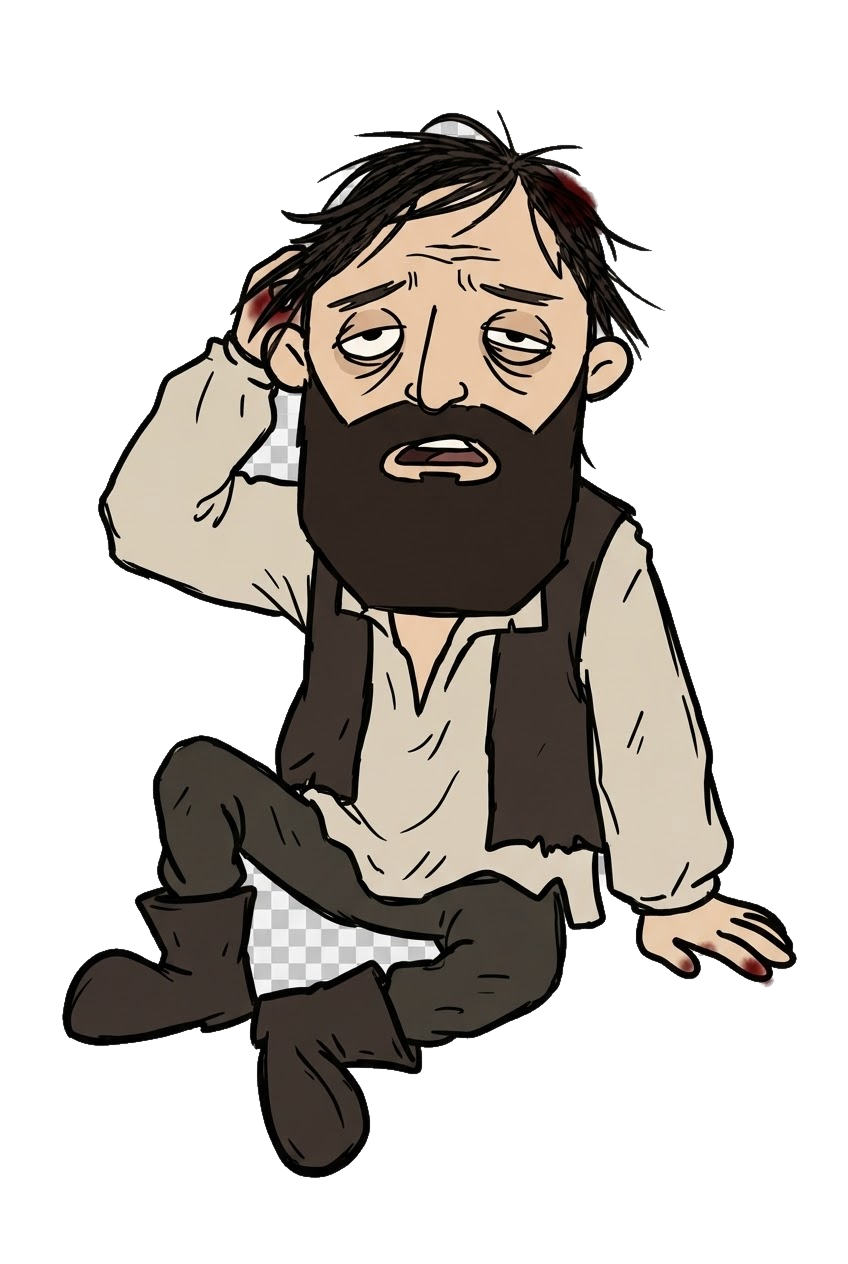
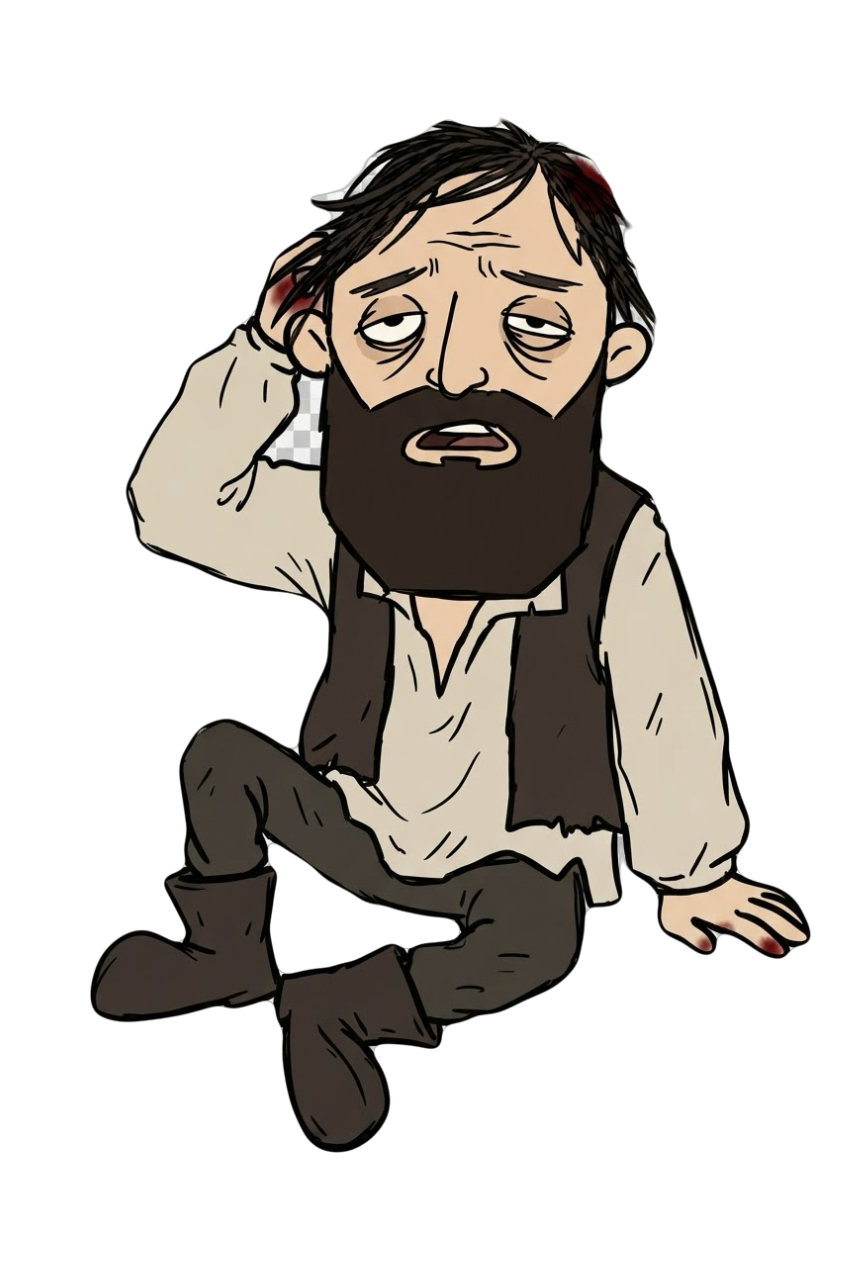
Add files via upload

Changed region(s): [[0.0613, 0.0926, 0.9505, 0.9565]]

diff --git a/ui-v085.css b/ui-v085.css
@@ -23,7 +23,7 @@
   overflow:hidden;
   background:
     linear-gradient(180deg,rgba(4,8,8,.22) 0%,rgba(4,8,8,.06) 42%,rgba(4,7,6,.32) 100%),
-    url('./start_menu_bg.jpg?v=085') center center/cover no-repeat;
+    url('./start_menu_bg.jpg?v=096a-public') center center/cover no-repeat;
 }
 .start-screen::before{
   content:"";
@@ -39,7 +39,7 @@
   inset:0;
   z-index:0;
   pointer-events:none;
-  background:url('./start_window_glow.png?v=085') center center/cover no-repeat;
+  background:none;
   opacity:.06;
   animation:windowFlicker085 23s steps(1,end) infinite;
 }
